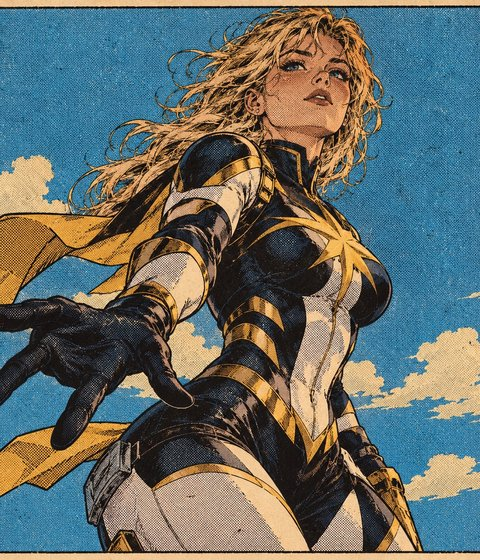
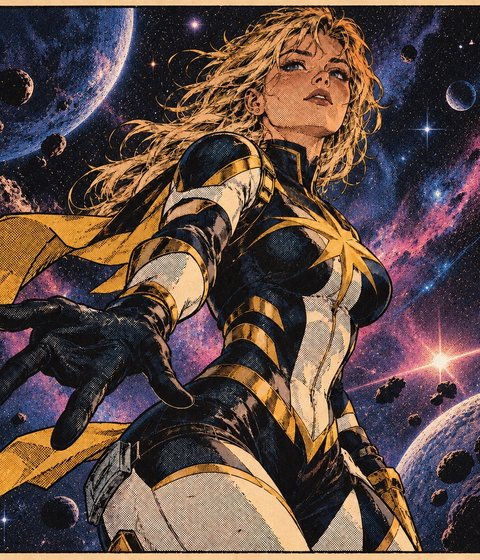
Replace pictures for Nova Mae, Skyline Sentinel and Radio Ranger
Also add a version to card picture URLs so replaced pictures show up
instead of cached ones.

Claude-Session: https://claude.ai/code/session_01FquF6XEsyAzJNRiJrii3Kg

diff --git a/index.html b/index.html
@@ -477,7 +477,8 @@ const CARDS=[
 ].map((c,i)=>({id:i,r:c[0],m:c[1],name:c[2],kana:c[3],flavor:c[4],h:c[5],shape:c[6]}));
 // standard cards that use a picture instead of the drawn portrait
 const PHOTOS={"Rubber Duck":"rubber-duck.jpg","Atlas Prime":"atlas-prime.jpg","Nova Mae":"nova-mae.jpg","Skyline Sentinel":"skyline-sentinel.jpg","Queen Quasar":"queen-quasar.jpg","Thunder Hound":"thunder-hound.jpg","Atomic Bee":"atomic-bee.jpg","Radio Ranger":"radio-ranger.jpg","Mirror Max":"mirror-max.jpg"};
-CARDS.forEach(c=>{if(PHOTOS[c.name])c.photo=PHOTOS[c.name]});
+const PHOTO_V="2";
+CARDS.forEach(c=>{if(PHOTOS[c.name])c.photo=PHOTOS[c.name]+"?v="+PHOTO_V});
 const PITY=80;
 const SFX={SR:"WHAM!",SSR:"KA-POW!!",UR:"KRAKA-BOOM!!!"};
 const PACK_COLORS=["#e2231a","#1d9e5a","#ff7a00","#7a3cff","#e0218a","#0f8f8f","#3d3d3d"];

diff --git a/sw.js b/sw.js
@@ -1,5 +1,5 @@
 // CARD COLLECTORS service worker: works offline after the first visit.
-const VERSION = "cc-v17";
+const VERSION = "cc-v18";
 const CORE = ["./", "index.html", "manifest.webmanifest", "icon-192.png", "icon-512.png", "icon-180.png", "rubber-duck.jpg", "atlas-prime.jpg", "nova-mae.jpg", "skyline-sentinel.jpg", "queen-quasar.jpg", "thunder-hound.jpg", "atomic-bee.jpg", "radio-ranger.jpg", "mirror-max.jpg"];
 
 self.addEventListener("install", e => {

diff --git a/README.md b/README.md
@@ -31,7 +31,7 @@
 
 ## 更新するとき
 
-`sw.js` の `VERSION`（いまは `cc-v17`）を `cc-v18` のように上げると、利用者の端末の古いキャッシュが入れ替わります。
+`sw.js` の `VERSION`（いまは `cc-v18`）を `cc-v19` のように上げると、利用者の端末の古いキャッシュが入れ替わります。
 
 ## データについて
 
